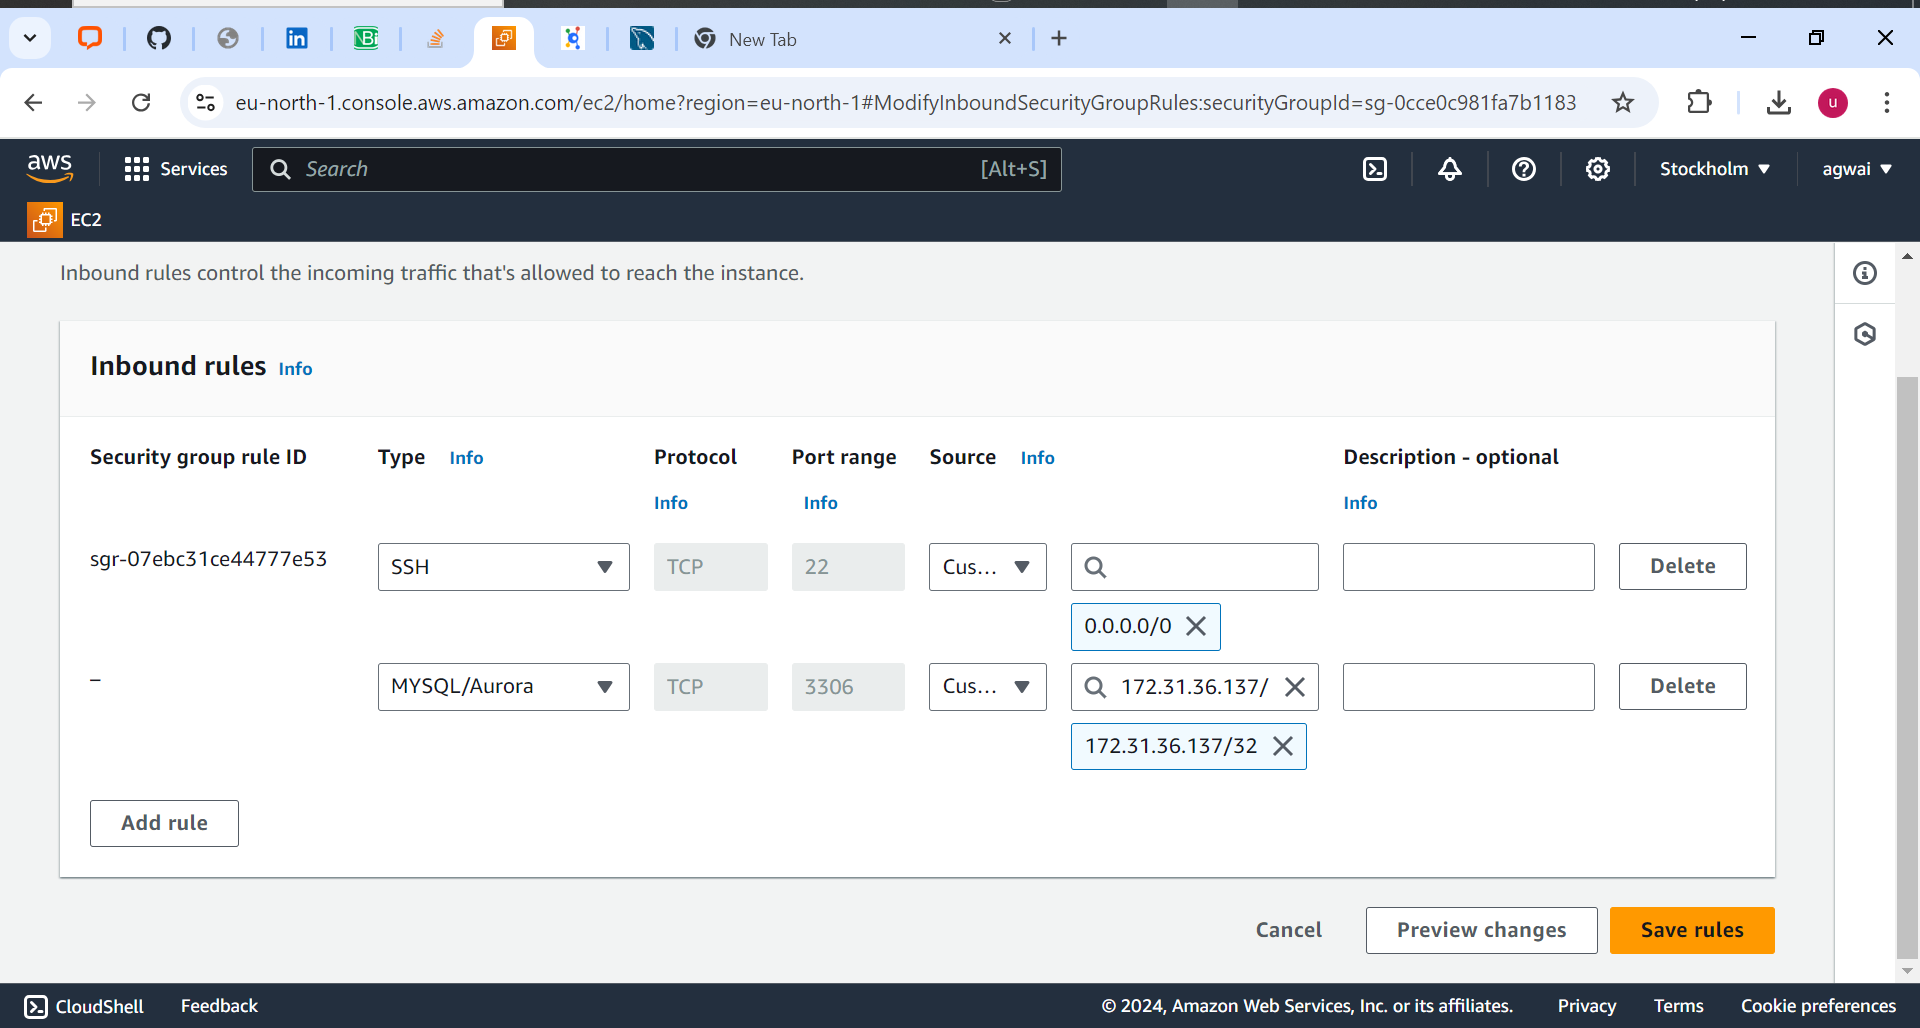
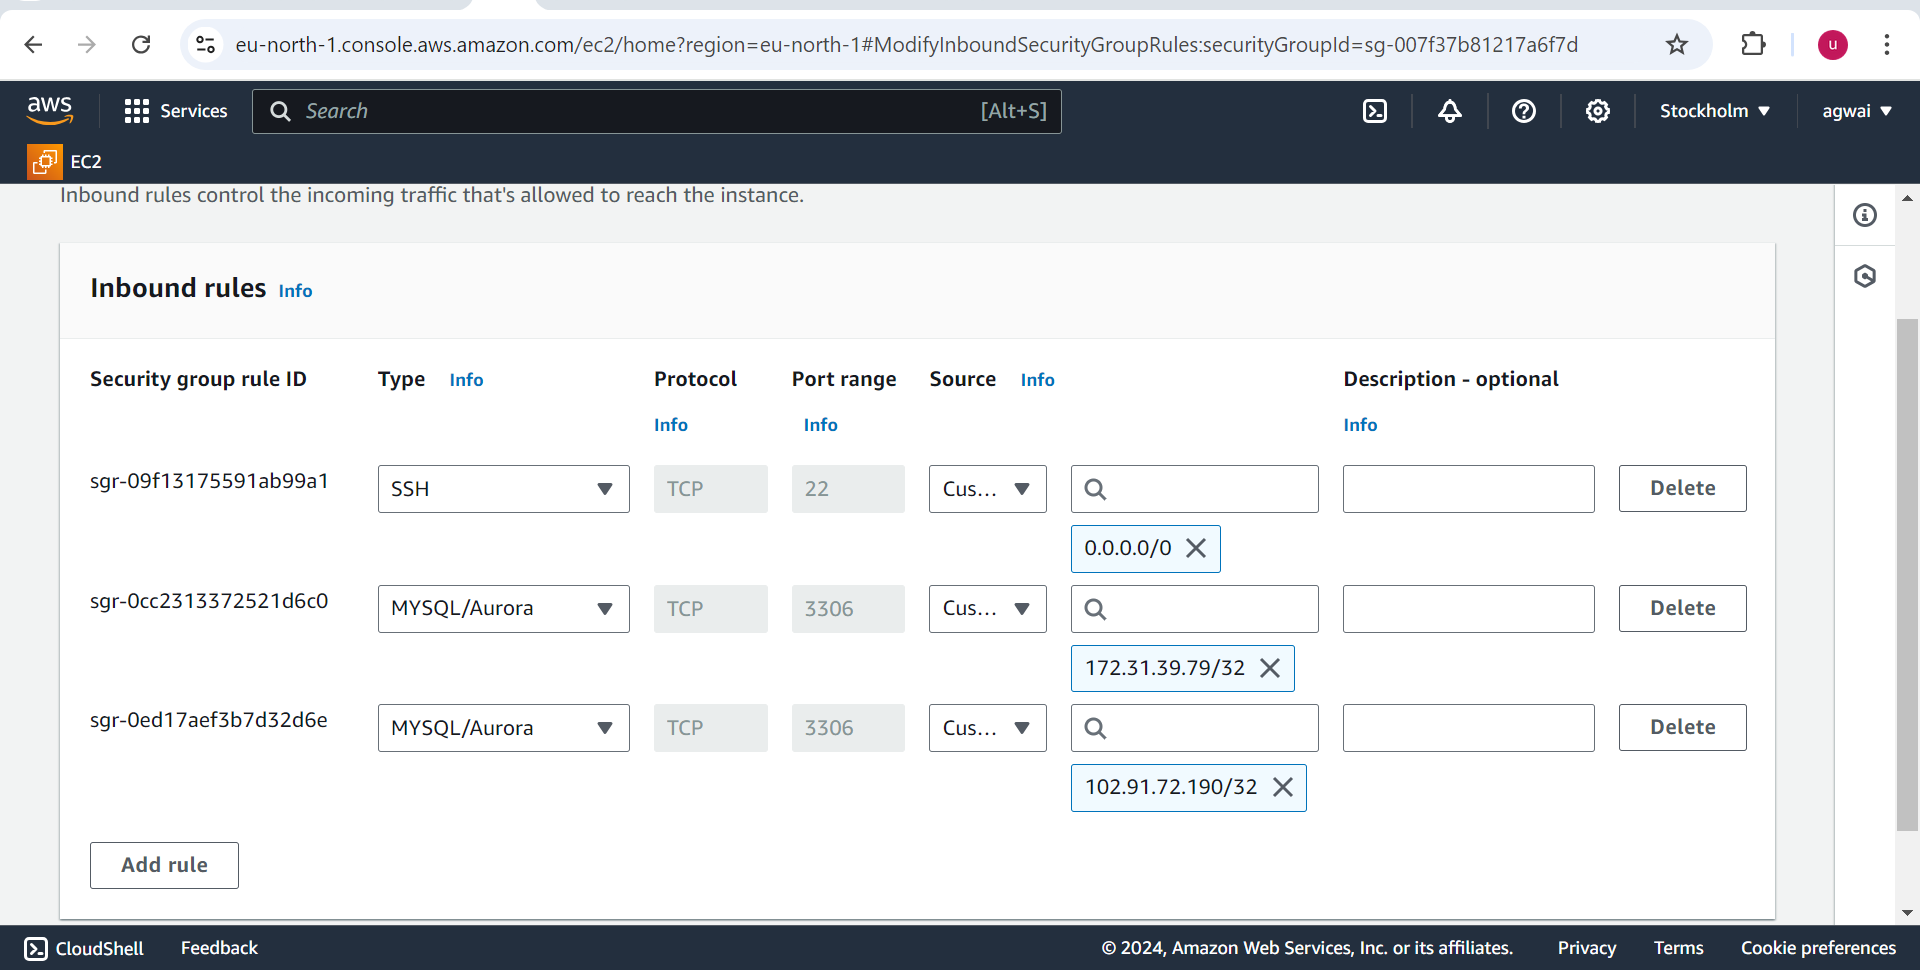
Pictures

diff --git a/Task.md b/Task.md
@@ -13,7 +13,7 @@ To demonstrate a basic client-server MySQL RDBMS, follow the below instructions:
 3. server B name - *mysql client*
 4. Install MySQL Server on Both servers that's after you've successfully connected them to your Terminal ![reference image](/Pictures/pic2.PNG)
 5. By default, both of your EC2 virtual servers are located in the same local virtual network, so they can communicate to each other using local IP addresses. Use *mysql server's* local IP address to connect from *mysql client*.
-6. Open the inbound rule on *mysql server* and add TCP port 3306 and for extra security do not allow all IP addresses to reach your 'mysql server' - allow access only to the specific local IP address of your 'mysql client'. ![reference image](/Pictures/pic3.PNG)
+6. Open the inbound rule on both servers and add TCP port 3306 and your localhost IP, for extra security do not allow all IP addresses to reach your servers - allow access only to the specific local IP address of your 'mysql client' and 'mysql server'. ![reference image](/Pictures/pic3.PNG)
 7. Configure MySQL server to allow connection from remote hosts using this command *sudo vi /etc/mysql/mysql.conf.d/mysqld.cnf* replace *bind.address* with *0.0.0.0*
 8. From mysql client Linux Server connect remotely to mysql server Database Engine without using SSH. You must use the mysql utility to perform this action.
 9. To do that we first of all create a new user database and grant all access to it ![reference image](/Pictures/pic6.PNG) then exit the mysql console 
